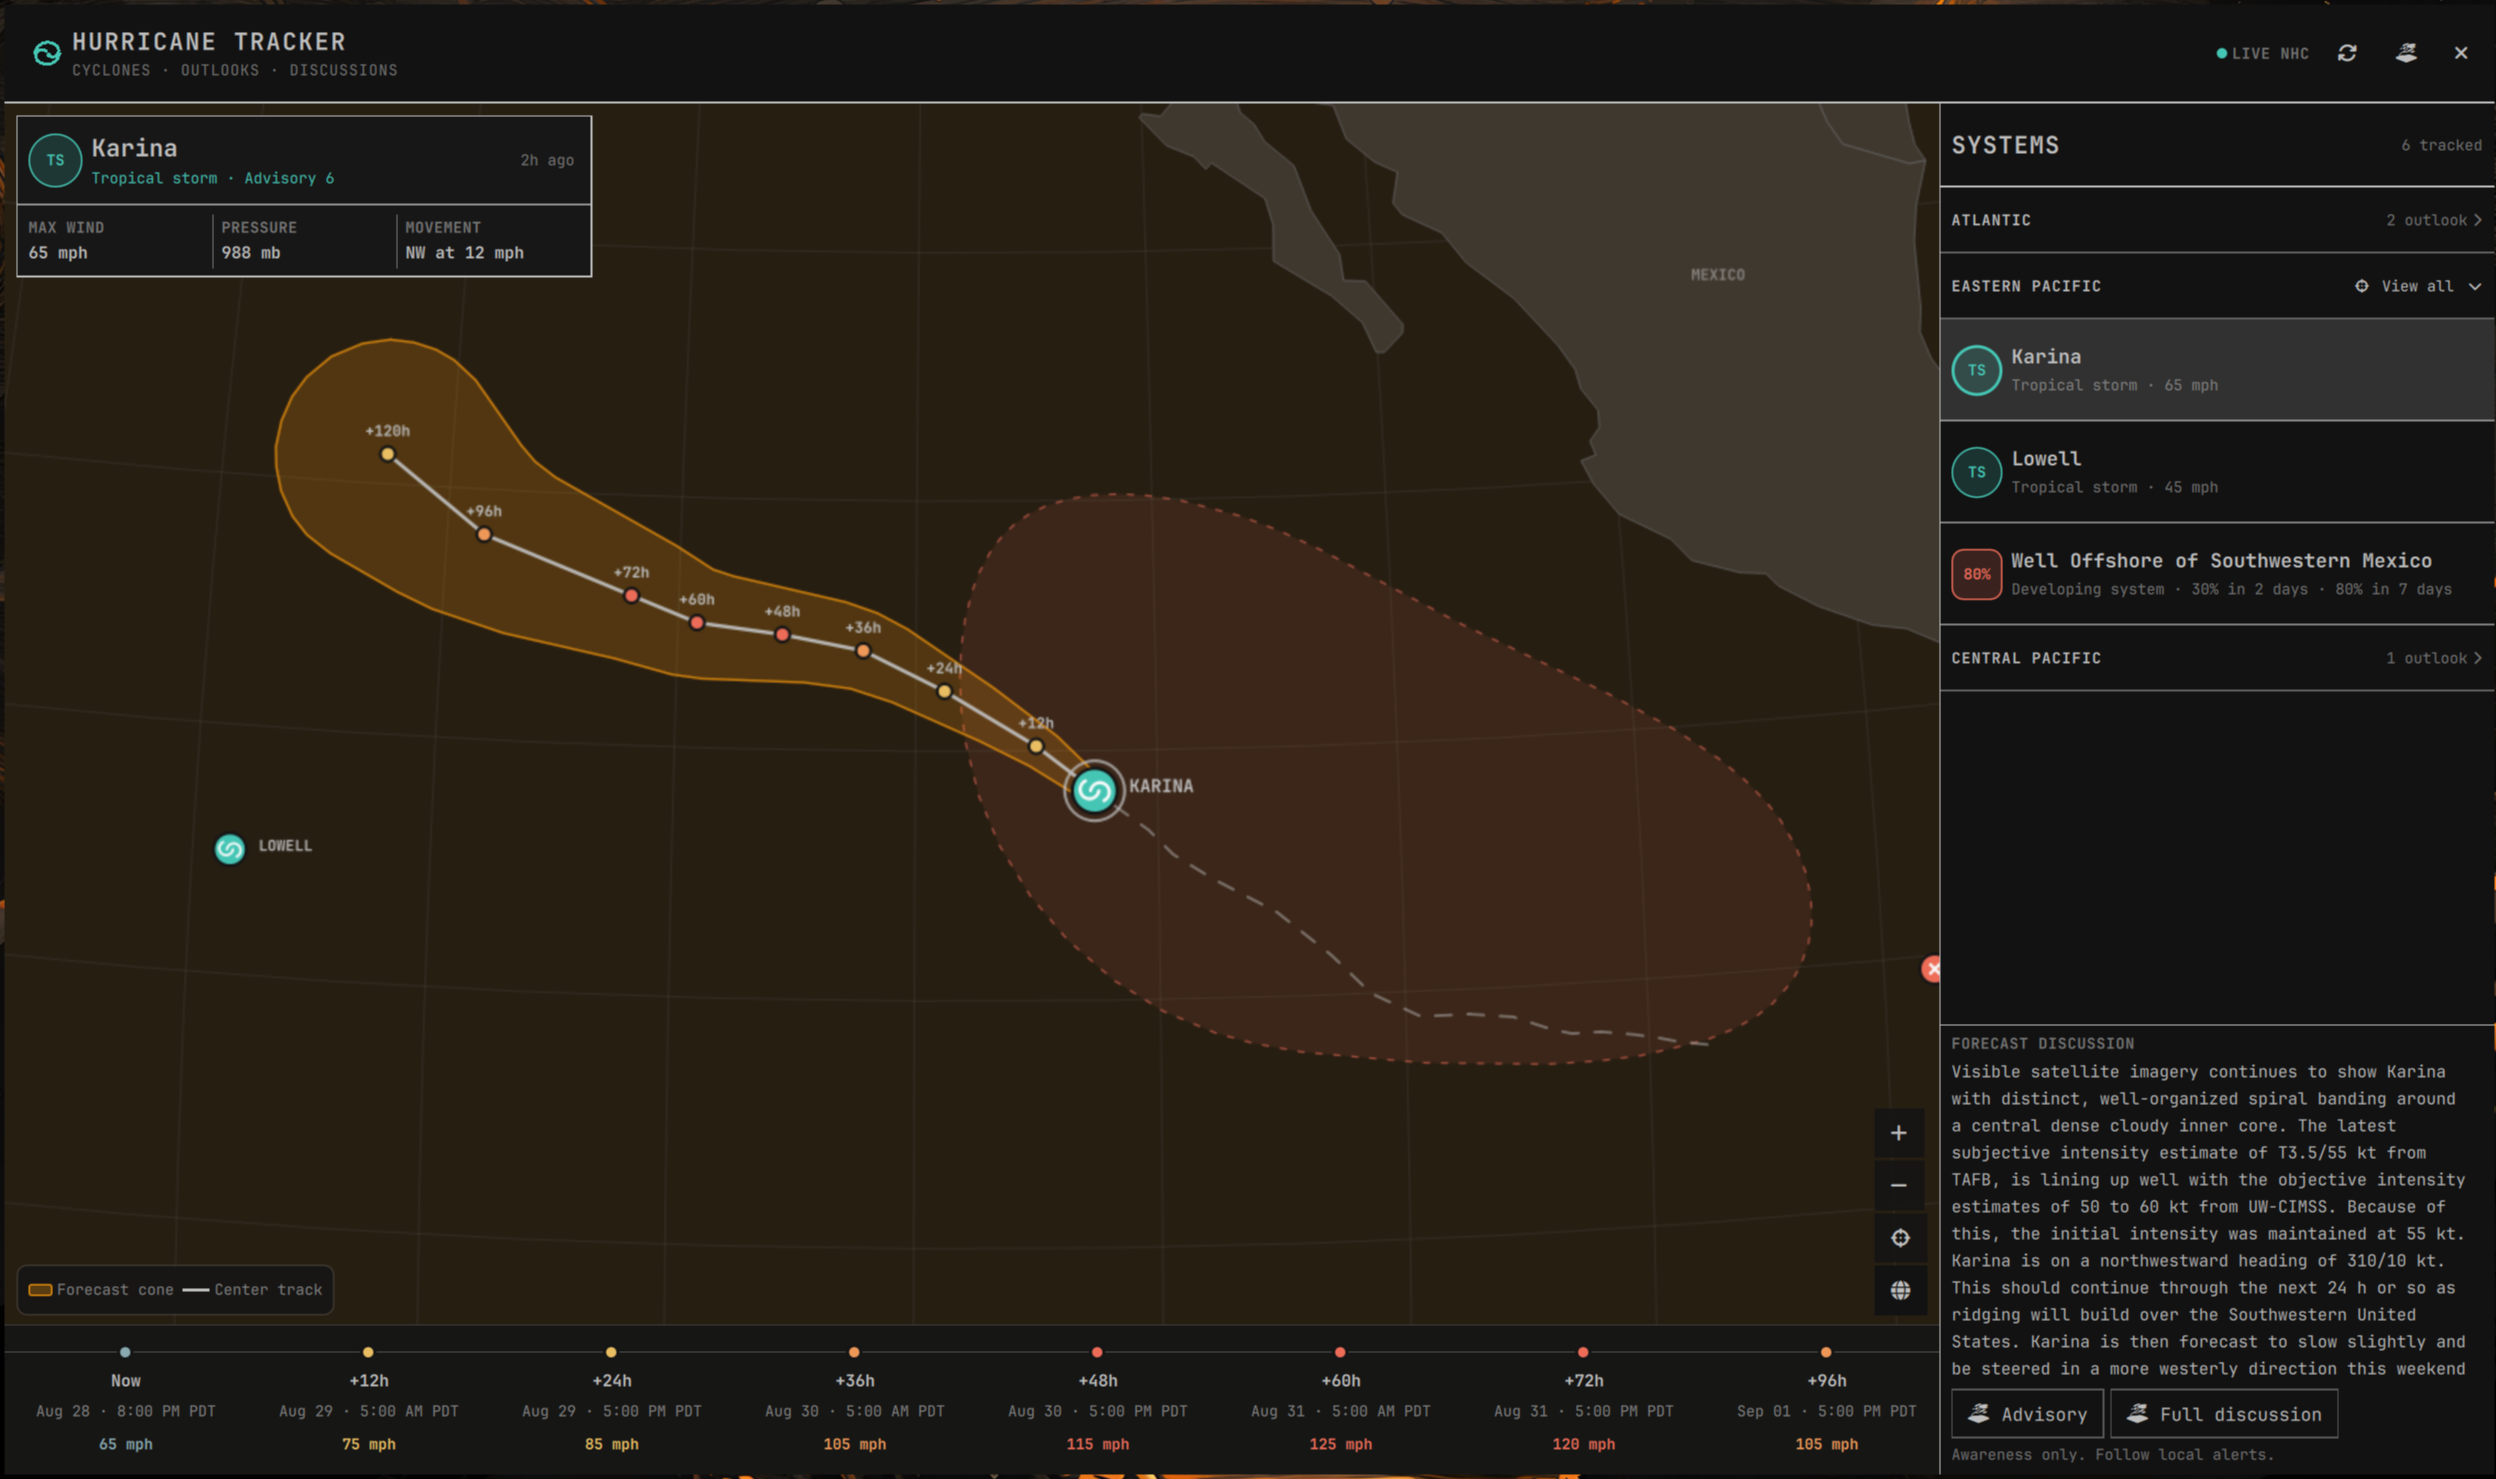
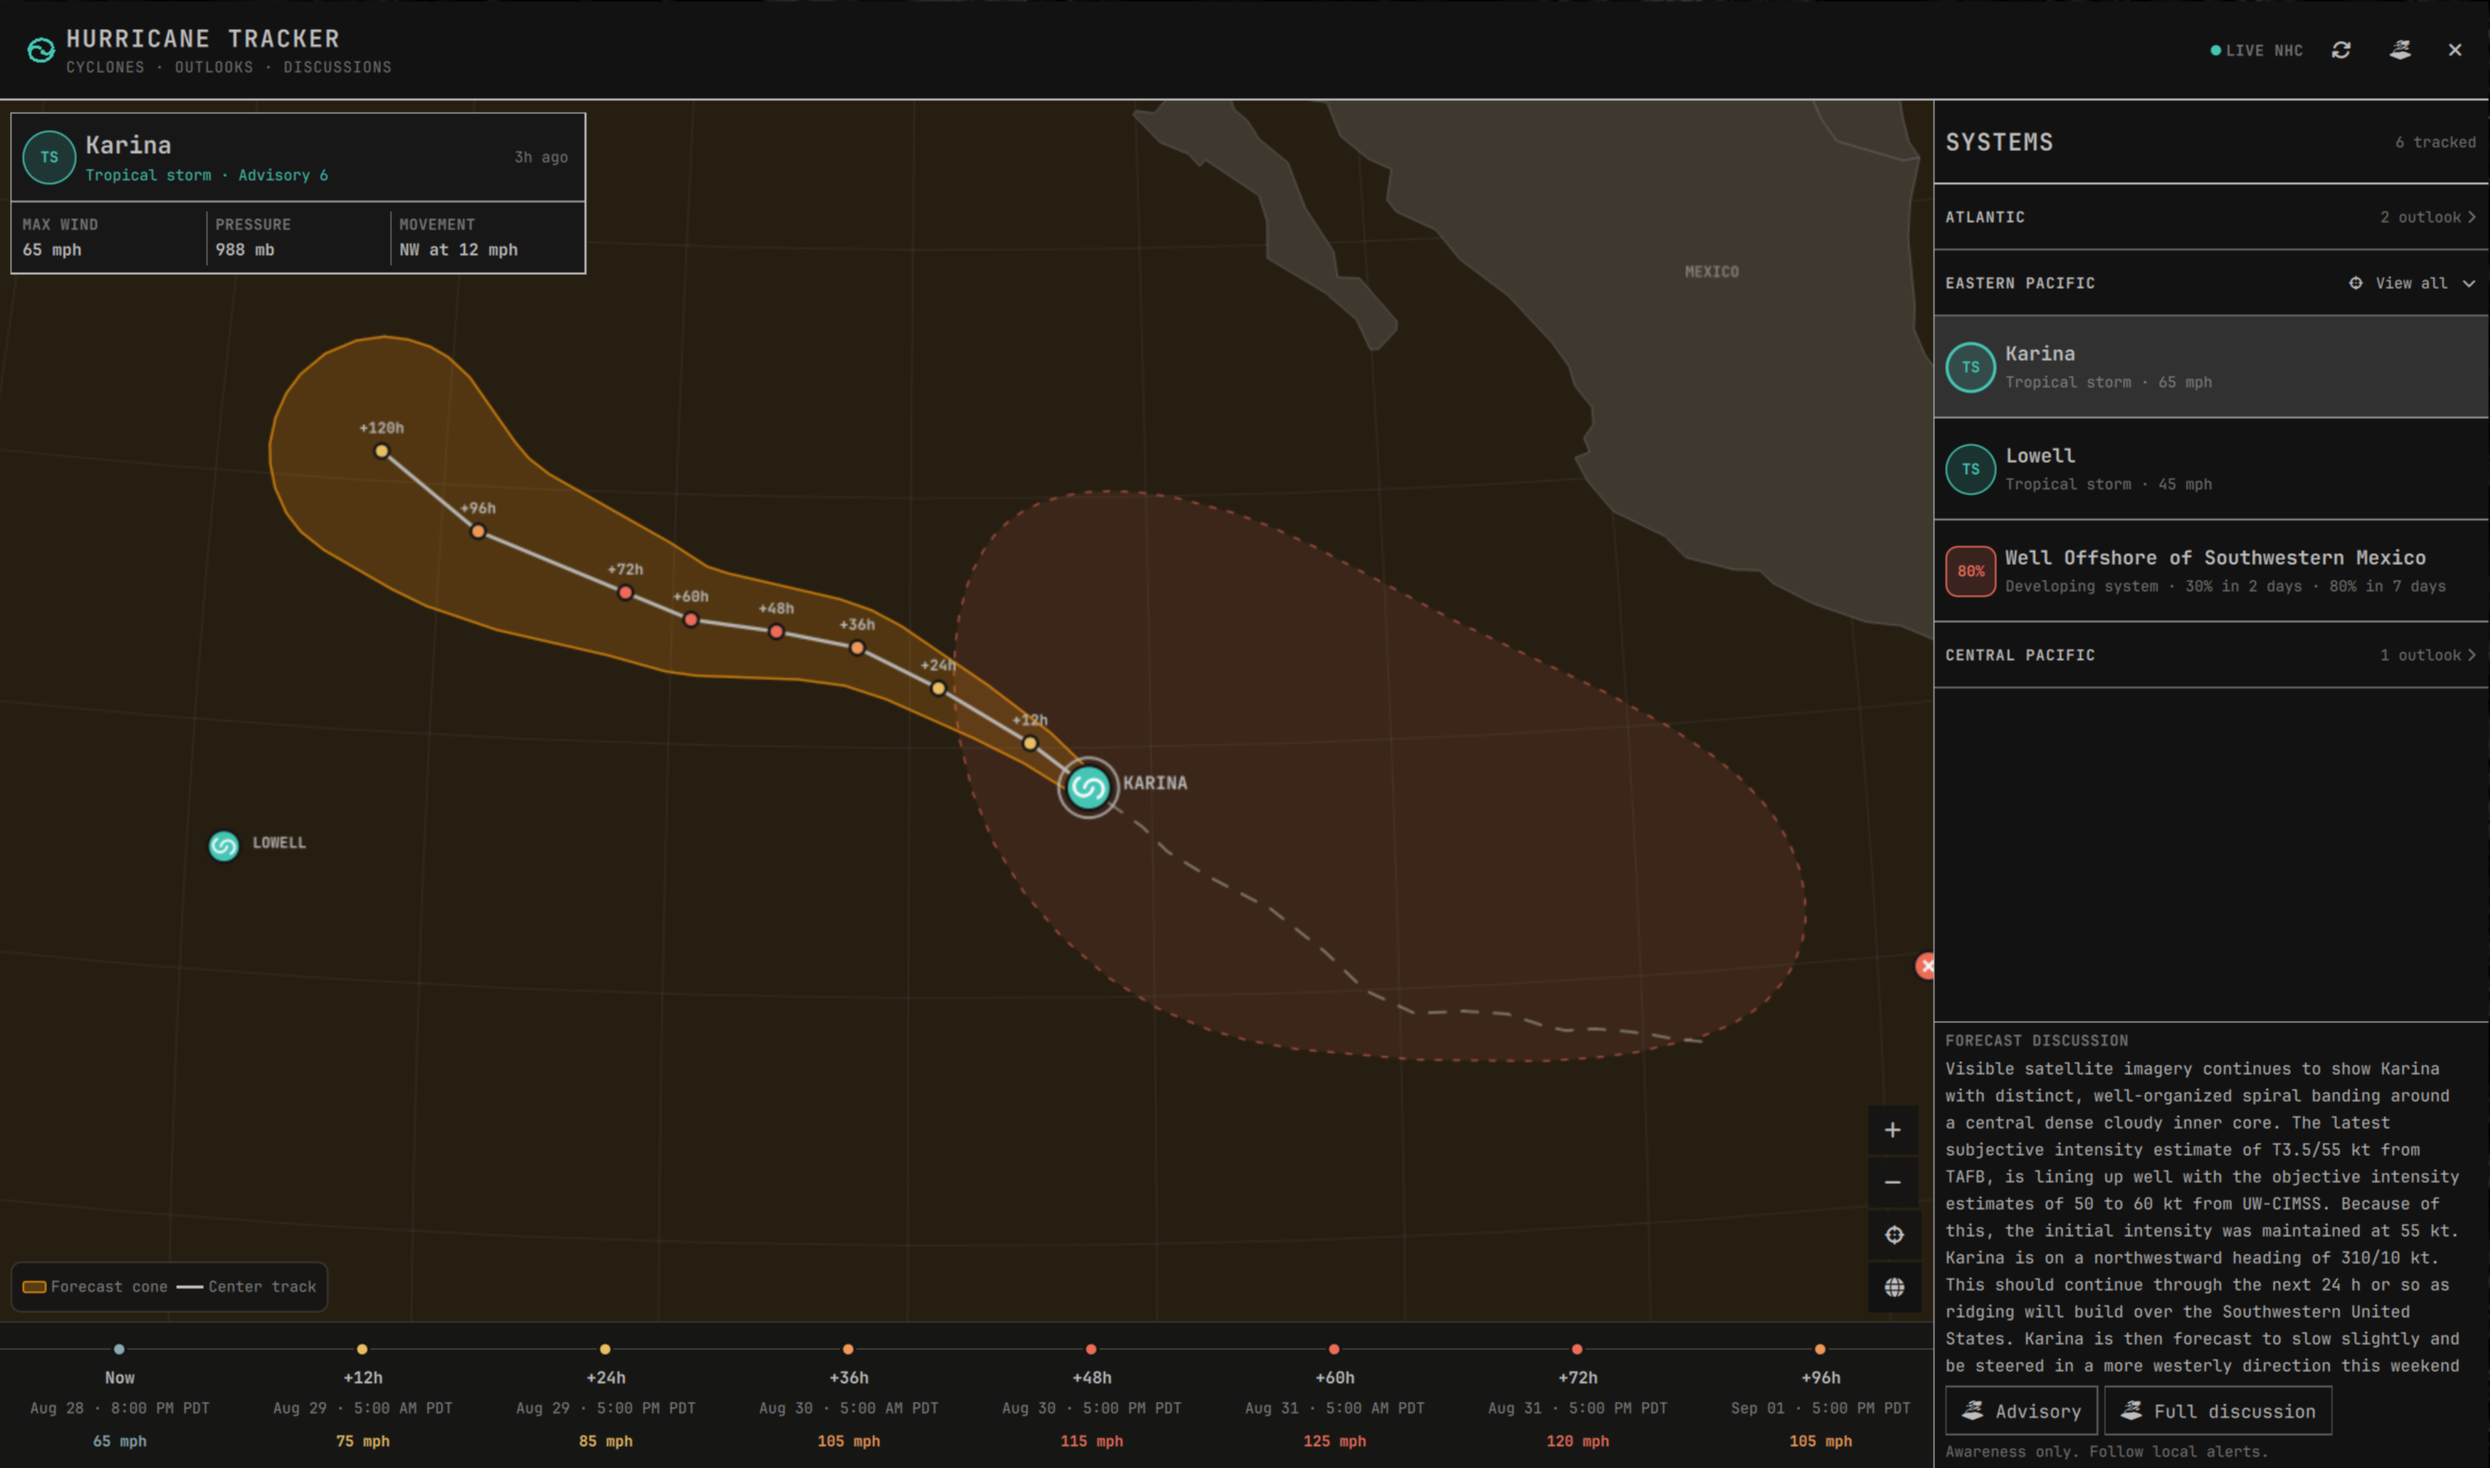
Show Hurricane Tracker preview in README

diff --git a/README.md b/README.md
@@ -1,9 +1,9 @@
 # Hurricane Tracker
 
 Hurricane Tracker is a native Omarchy weather plugin. Its compact bar signal
-opens a calm, spatial view of active National Hurricane Center cyclones, their past and
-forecast center tracks, official cone of uncertainty, and regional development
-outlooks.
+opens a calm, spatial view of active National Hurricane Center cyclones, their
+past and forecast center tracks, official cone of uncertainty, and regional
+development outlooks.
 
 The project keeps its original `io.github.olivoil.omanado` plugin ID and cache
 path so existing installations continue to update normally.
@@ -11,6 +11,8 @@ path so existing installations continue to update normally.
 The interaction rhythm is inspired by Windy's hurricane view, but the plugin
 uses its own native QML interface, public-domain map geometry, and official
 NOAA/NHC data. It does not use Windy assets or APIs.
+
+![Hurricane Tracker showing Tropical Storm Karina's forecast cone, regional systems, and NHC discussion](preview.png)
 
 ## What it does
 
